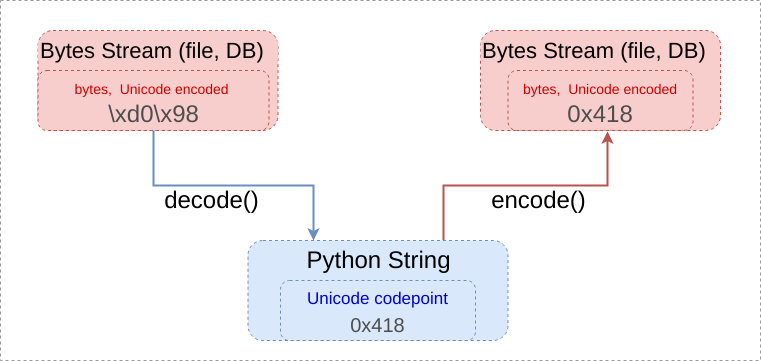
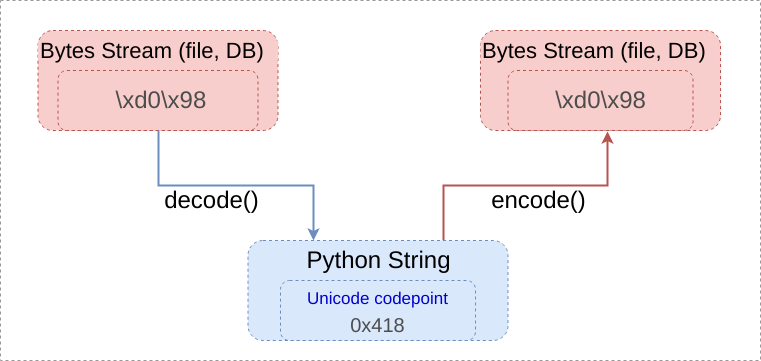
Unicode/encoding more examples

diff --git a/pages/themes/beginners/unicodeTopics/unicodeTopics.html b/pages/themes/beginners/unicodeTopics/unicodeTopics.html
@@ -165,6 +165,10 @@
 <section><h1>Encode-Decode</h1></section>
 <section><h2>Encode-Decode</h2>
 	<section>
+		<!-- <dl class="fa">
+			<dt>In byte streams, we have <b>only bytes</b>, but we can interpret them, i.e. to decode, as characters using  some character table</dt>
+
+		</dl> -->
 		<a href="images/Python_encode_decode.png"><img src="images/Python_encode_decode.png"></a>
 	</section>
 </section>

diff --git a/pages/themes/beginners/unicodeTopics/examples/fromWin1251_toUTF8.py b/pages/themes/beginners/unicodeTopics/examples/fromWin1251_toUTF8.py
@@ -2,23 +2,20 @@ input_file_name = "windows-1251_encoded_file.txt"
 output_file_name = "utf8_encoded_file.txt"
 
 
-def decode_from(enc, file_name):
-  # open file for read in bytemode
-  with open(file_name,"rb") as f:
-    content_in_bytes = f.read()
-    decoded_content = content_in_bytes.decode(enc)
+def read_from(enc, file_name):
+  # open file for read in textmode with encoding:
+  with open(file_name,"r", encoding="cp1251") as f:
+    decoded_content = f.read()
 
   return decoded_content
 
-def encode_to(enc, content, file_name):
-  # encode content:
-  encoded_content = content.encode(enc)
-  # open a file in byte write mode:
-  with open(file_name,"wb") as f:
-    f.write(encoded_content)
+def write_to(enc, content, file_name):
+  # open file for write in textmode with encoding:
+   with open(file_name,"w+", encoding=enc) as f:
+    f.write(content)
 
 
-decoded_content = decode_from("cp1251", input_file_name)
-encode_to("iso8859_5", decoded_content, output_file_name)
+decoded_content = read_from("cp1251", input_file_name)
+write_to("utf8", decoded_content, output_file_name)
 
 
